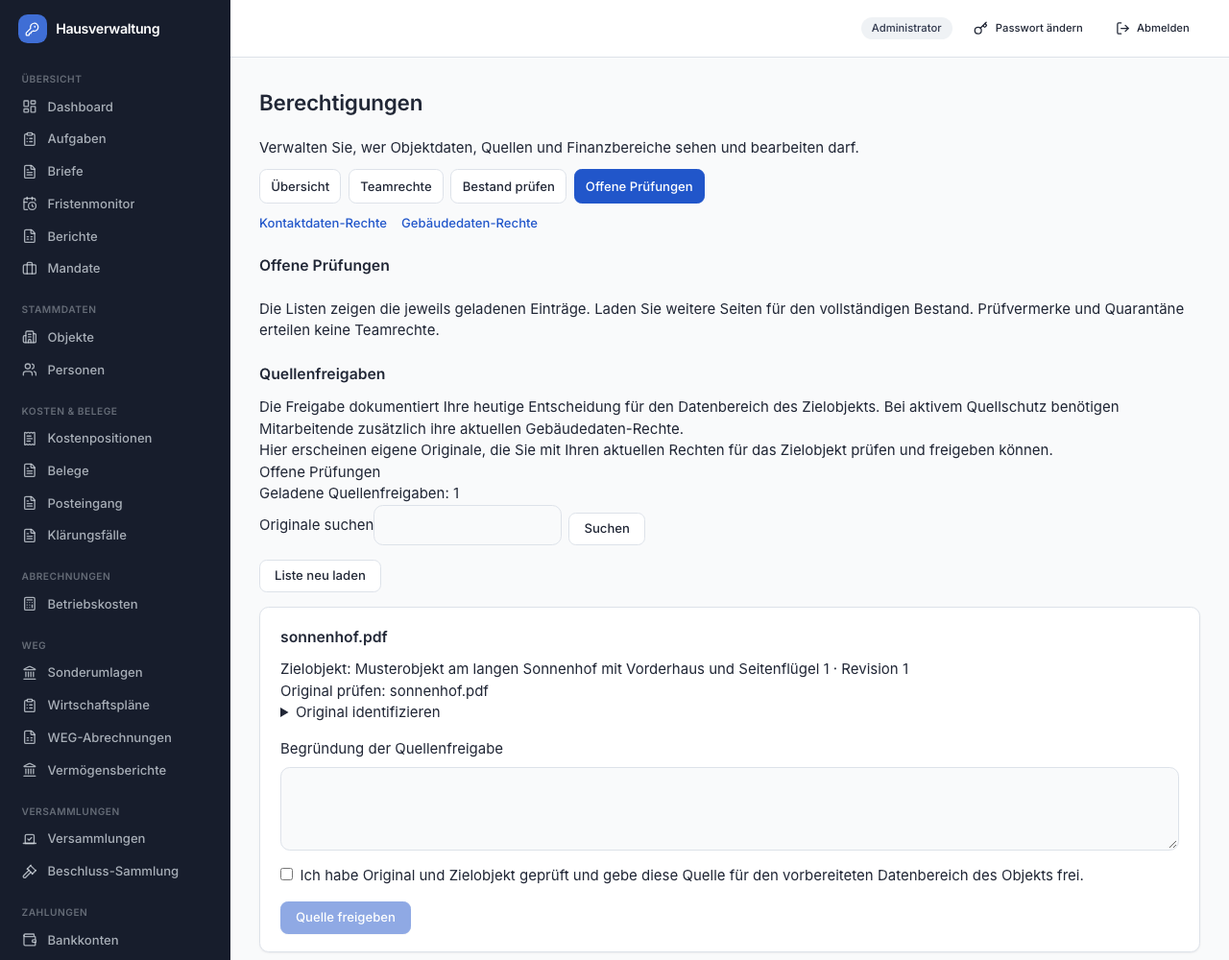
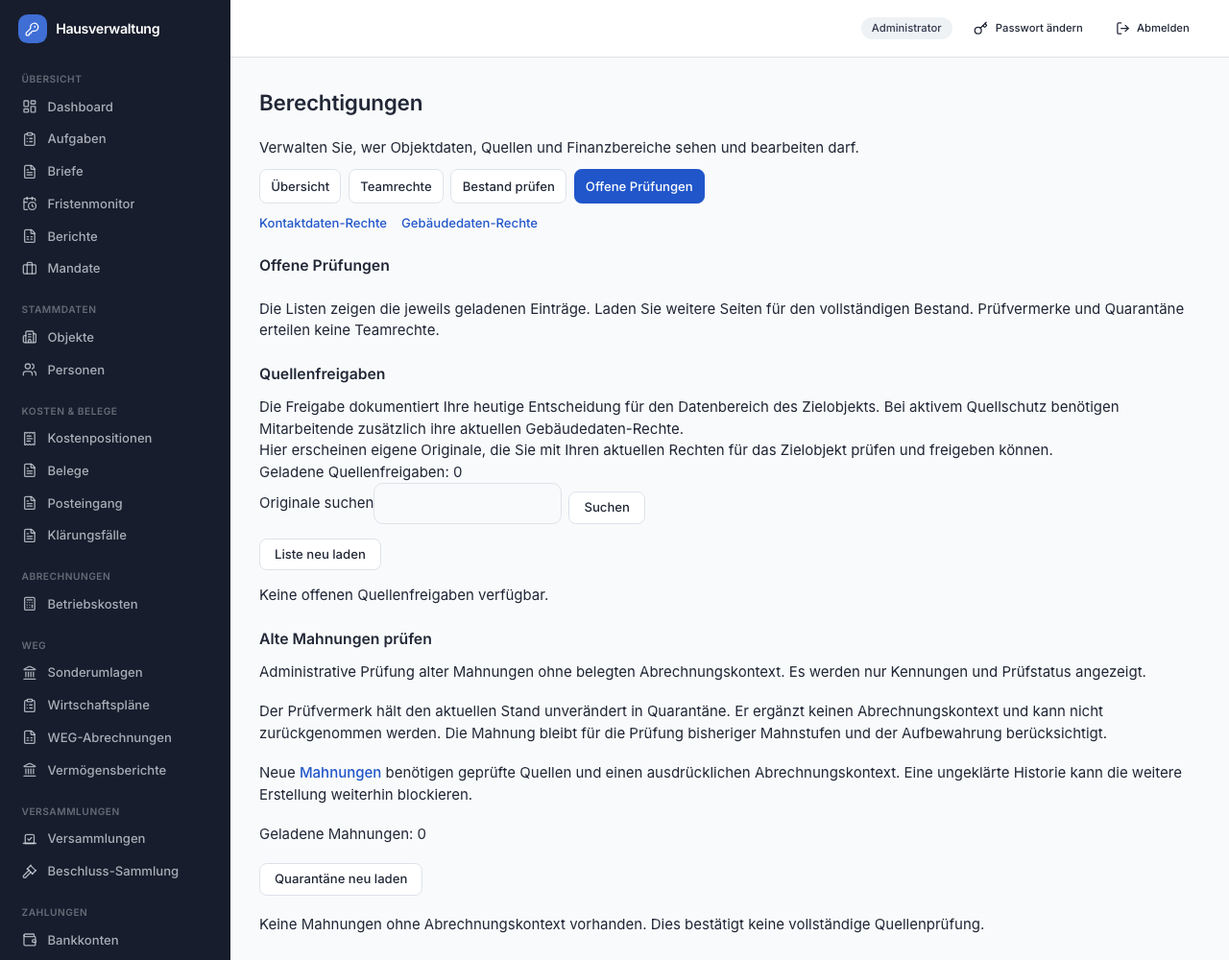
fix(permissions): align status copy and review navigation
Two secondary screens still described preparation after activation, and embedded
review lists linked back to themselves. Read the existing live status with the
shared mode descriptions, restrict admin navigation, and remove embedded links.
Update eight legacy setup routes, durable activation docs, and referenced images.
Add the preparation access baseline without changing enforcement tests.

Verification: 72 backend tests; 88 frontend tests; make lint; make docs-check;
13 instruction-rule tests; eight script syntax checks; Chromium at 1280/360 px.
Regression tests failed first for stale copy, unavailable state and review links.

Closes #73

Changed region(s): [[0.2188, 0.465, 0.9375, 0.837], [0.2188, 0.868, 0.875, 0.992], [0.4688, 0.527, 0.5312, 0.558]]

diff --git a/frontend/src/pages/SourceClassificationsPage.test.tsx b/frontend/src/pages/SourceClassificationsPage.test.tsx
@@ -13,17 +13,21 @@ afterEach(() => { cleanup(); vi.restoreAllMocks(); role = "OWNER_ADMIN"; });
 function show(path = "/altquellen") {
   render(<MemoryRouter initialEntries={[path]}><Routes><Route path="/altquellen" element={<SourceClassificationsPage />} /><Route path="/altquellen/:reviewId" element={<SourceClassificationsPage />} /></Routes></MemoryRouter>);
 }
+function mockSources(items: (Omit<typeof source, "source_uploaded_by"> & { source_uploaded_by: string | null })[] = [source]) {
+  return vi.spyOn(api, "get").mockImplementation(async (path) => path === "/api/access-preparation/source-security"
+    ? { mode: "PREPARATION", changed_at: null } : { items, next_cursor: null });
+}
 function confirm() {
   fireEvent.change(screen.getByLabelText("Begründung der Einstufung"), { target: { value: "Original und Ziel geprüft" } });
   fireEvent.click(screen.getByRole("checkbox"));
 }
 
 it("retains exact classification, digest and key after an unconfirmed response", async () => {
-  vi.spyOn(api, "get").mockResolvedValue({ items: [source], next_cursor: null });
+  mockSources();
   const post = vi.spyOn(api, "post").mockRejectedValueOnce(new Error("Lost reply")).mockResolvedValue({ ...source, id: "receipt", decision: "ADMITTED", reason: "Original und Ziel geprüft", created_at: "2026-10-02T12:00:00Z" });
   show();
   expect(await screen.findByRole("button", { name: "Einstufung speichern" })).toBeDisabled();
-  expect(screen.getByText(/schränkt den bisherigen Zugriff noch nicht ein/)).toBeVisible();
+  expect(screen.getByText(/objektbezogene Quellschutz ist noch aus/)).toBeVisible();
   confirm(); fireEvent.click(screen.getByRole("button", { name: "Einstufung speichern" }));
   await screen.findByText(/Keine bestätigte Antwort erhalten/);
   expect(screen.getByRole("combobox")).toBeDisabled();
@@ -36,7 +40,7 @@ it("retains exact classification, digest and key after an unconfirmed response",
 });
 
 it("offers only quarantine and no original link for unknown custody", async () => {
-  vi.spyOn(api, "get").mockResolvedValue({ items: [{ ...source, can_admit: false, can_preview: false, source_uploaded_by: null }], next_cursor: null });
+  mockSources([{ ...source, can_admit: false, can_preview: false, source_uploaded_by: null }]);
   show(); await screen.findByRole("combobox");
   expect(screen.getByRole("combobox")).toHaveValue("QUARANTINED");
   expect(screen.getByRole("option", { name: "Quelle freigeben" })).toBeDisabled();
@@ -45,7 +49,7 @@ it("offers only quarantine and no original link for unknown custody", async () =
 });
 
 it("requires renewed confirmation after changing the decision", async () => {
-  vi.spyOn(api, "get").mockResolvedValue({ items: [source], next_cursor: null });
+  mockSources();
   show(); await screen.findByRole("checkbox"); confirm();
   expect(screen.getByRole("button", { name: "Einstufung speichern" })).toBeEnabled();
   fireEvent.change(screen.getByRole("combobox"), { target: { value: "QUARANTINED" } });
@@ -54,7 +58,7 @@ it("requires renewed confirmation after changing the decision", async () => {
 });
 
 it("requires refreshed context and new confirmation after conflict", async () => {
-  const get = vi.spyOn(api, "get").mockResolvedValue({ items: [source], next_cursor: null });
+  const get = mockSources();
   const post = vi.spyOn(api, "post").mockRejectedValue(new ApiError(409, "Stale context"));
   show(); await screen.findByRole("checkbox"); confirm();
   fireEvent.click(screen.getByRole("button", { name: "Einstufung speichern" }));
@@ -79,4 +83,27 @@ it("does not expose a receipt after current access is denied", async () => {
   vi.spyOn(api, "get").mockRejectedValue(new ApiError(404, "Denied"));
   show("/altquellen/receipt"); await screen.findByText(/Prüfnachweis mit Ihren aktuellen Rechten nicht verfügbar/);
   expect(screen.queryByRole("region", { name: "Prüfnachweis" })).not.toBeInTheDocument();
+});
+
+it.each([
+  ["PREPARATION", "Der objektbezogene Quellschutz ist noch aus."],
+  ["ENFORCED", "Mitarbeitende sehen nur ausdrücklich freigegebene Objektdaten"],
+  ["PAUSED", "Quellen- und Finanzaktionen sind angehalten."],
+])("shows the live %s protection state on legacy source classification", async (mode, message) => {
+  const get = vi.spyOn(api, "get").mockImplementation(async (path) => path === "/api/access-preparation/source-security"
+    ? { mode, changed_at: null } : { items: [source], next_cursor: null });
+  show();
+  expect(await screen.findByText((text) => text.includes(message))).toBeVisible();
+  expect(get).toHaveBeenCalledWith("/api/access-preparation/source-security", expect.anything());
+  expect(screen.queryByText(/Sie ist noch nicht aktiviert/)).not.toBeInTheDocument();
+});
+
+it("reports unavailable protection instead of claiming preparation when status fails", async () => {
+  vi.spyOn(api, "get").mockImplementation(async (path) => {
+    if (path === "/api/access-preparation/source-security") throw new Error("Unavailable");
+    return { items: [source], next_cursor: null };
+  });
+  show();
+  expect(await screen.findByText(/Der aktuelle Quellschutz ist nicht verfügbar/)).toBeVisible();
+  expect(screen.queryByText(/noch nicht aktiviert|Quellschutz ist noch aus/)).not.toBeInTheDocument();
 });

diff --git a/frontend/src/pages/DeclarationReviewPage.test.tsx b/frontend/src/pages/DeclarationReviewPage.test.tsx
@@ -1,8 +1,8 @@
-import { afterEach, describe, expect, it, vi } from "vitest";
+import { afterEach, beforeEach, describe, expect, it, vi } from "vitest";
 import { cleanup, fireEvent, render, screen, waitFor } from "@testing-library/react";
 import { MemoryRouter, Route, Routes, useNavigate } from "react-router-dom";
 import * as declarationApi from "../api/endpoints";
-import { ApiError } from "../api/client";
+import { api, ApiError } from "../api/client";
 import type { ApprovalPreview, DeclarationCandidate, DeclarationDocument } from "../api/types";
 import { DeclarationReviewPage } from "./DeclarationReviewPage";
 import * as auth from "../auth/useAuth";
@@ -60,6 +60,10 @@ function renderReview(withRouteSwitch = false) {
   );
 }
 
+beforeEach(() => {
+  vi.spyOn(api, "get").mockResolvedValue({ mode: "PREPARATION", changed_at: null });
+});
+
 afterEach(() => {
   cleanup();
   vi.restoreAllMocks();
@@ -67,6 +71,29 @@ afterEach(() => {
 });
 
 describe("Teilungserklärung review", () => {
+  it.each([
+    ["PREPARATION", "Der objektbezogene Quellschutz ist noch aus."],
+    ["ENFORCED", "Mitarbeitende sehen nur ausdrücklich freigegebene Objektdaten"],
+    ["PAUSED", "Quellen- und Finanzaktionen sind angehalten."],
+  ])("shows the live %s protection state when preparing publication rights", async (mode, message) => {
+    vi.mocked(api.get).mockResolvedValue({ mode, changed_at: null });
+    mockReviewData();
+    renderReview();
+    fireEvent.click(await screen.findByRole("button", { name: "Übernahme vorbereiten" }));
+    expect(await screen.findByText((text) => text.includes(message))).toBeVisible();
+    expect(api.get).toHaveBeenCalledWith("/api/access-preparation/source-security", expect.anything());
+    expect(screen.queryByText(/Zugriffsbeschränkung ist noch nicht aktiviert/)).not.toBeInTheDocument();
+  });
+
+  it("reports unavailable protection when the current status cannot be loaded", async () => {
+    vi.mocked(api.get).mockRejectedValue(new Error("Unavailable"));
+    mockReviewData();
+    renderReview();
+    fireEvent.click(await screen.findByRole("button", { name: "Übernahme vorbereiten" }));
+    expect(await screen.findByText(/Der aktuelle Quellschutz ist nicht verfügbar/)).toBeVisible();
+    expect(screen.queryByText(/noch nicht aktiviert|Quellschutz ist noch aus/)).not.toBeInTheDocument();
+  });
+
   it("requires an explicit audience choice and reason, then retries the exact submitted grant", async () => {
     mockReviewData([candidate({ review_status: "ACCEPTED" })]);
     const approve = vi.spyOn(declarationApi, "approveDeclarationImport").mockRejectedValue(new Error("Antwort verloren"));
@@ -90,7 +117,7 @@ describe("Teilungserklärung review", () => {
         { user_id: "publisher", capabilities: ["read", "prepare", "approve", "export"], reason: "Objektfreigabe geprüft" },
       ] },
     });
-    expect(screen.getByText(/Zugriffsbeschränkung ist noch nicht aktiviert/)).toBeVisible();
+    expect(screen.getByText(/objektbezogene Quellschutz ist noch aus/)).toBeVisible();
   });
 
   it("does not offer new audience creation for an existing property amendment", async () => {

diff --git a/frontend/src/pages/SourceAdmissionReviewsPage.tsx b/frontend/src/pages/SourceAdmissionReviewsPage.tsx
@@ -1,5 +1,5 @@
 import { useEffect, useRef, useState, type FormEvent } from "react";
-import { Link, useParams } from "react-router-dom";
+import { Link, useLocation, useParams } from "react-router-dom";
 import { ApiError } from "../api/client";
 import { useAuth } from "../auth/useAuth";
 import { usePagedList } from "../hooks/usePagedList";
@@ -56,12 +56,15 @@ function ReviewForm({ source }: { source: PendingSource }) {
 }
 
 function PendingReviews() {
+  const { session } = useAuth();
+  const { pathname } = useLocation();
   const page = usePagedList<PendingSource>(endpoint + "/pending/page");
   const [generation, setGeneration] = useState(0);
   function refresh() { setGeneration(value => value + 1); page.reload(); }
   return <>
     <p>Hier erscheinen eigene Originale, die Sie mit Ihren aktuellen Rechten für das Zielobjekt prüfen und freigeben können.</p>
-    <p><Link to="/berechtigungen/pruefungen">Offene Prüfungen</Link></p>
+    {session?.role === "OWNER_ADMIN" && pathname !== "/berechtigungen/pruefungen" &&
+      <p><Link className="link" to="/berechtigungen/pruefungen">Offene Prüfungen</Link></p>}
     {!page.error && !page.loading && <p>Geladene Quellenfreigaben: {page.items.length.toLocaleString("de-DE")}{page.nextCursor ? " · Weitere Einträge verfügbar" : ""}</p>}
     <ListSearch label="Originale suchen" onSearch={page.setQuery} />
     <button className="btn mb-4" disabled={page.loading} onClick={refresh}>Liste neu laden</button>
@@ -91,7 +94,7 @@ export function SourceAdmissionReviewsPage() {
   const canWrite = session?.role === "OWNER_ADMIN" || session?.role === "CLERK";
   return <div className="paged-list source-admission-review min-w-0"><h2>Quellenfreigaben</h2>
     <p>Die Freigabe dokumentiert Ihre heutige Entscheidung für den Datenbereich des Zielobjekts. Bei aktivem Quellschutz benötigen Mitarbeitende zusätzlich ihre aktuellen Gebäudedaten-Rechte.</p>
-    {reviewId ? <><Link to="/berechtigungen/pruefungen/quellen">Zur Liste der Quellenfreigaben</Link><ReceiptDetail key={reviewId} reviewId={reviewId} /></> :
+    {reviewId ? <><Link className="link" to="/berechtigungen/pruefungen/quellen">Zur Liste der Quellenfreigaben</Link><ReceiptDetail key={reviewId} reviewId={reviewId} /></> :
       canWrite ? <PendingReviews /> : <p>Quellenfreigaben erfordern Schreibrechte.</p>}
   </div>;
 }

diff --git a/frontend/src/pages/SourceAdmissionReviewsPage.test.tsx b/frontend/src/pages/SourceAdmissionReviewsPage.test.tsx
@@ -10,7 +10,7 @@ let role = "OWNER_ADMIN";
 vi.mock("../auth/useAuth", () => ({ useAuth: () => ({ session: { role } }) }));
 afterEach(() => { cleanup(); vi.restoreAllMocks(); role = "OWNER_ADMIN"; });
 function show(path = "/quellenfreigaben") {
-  render(<MemoryRouter initialEntries={[path]}><Routes><Route path="/quellenfreigaben" element={<SourceAdmissionReviewsPage />} /><Route path="/quellenfreigaben/:reviewId" element={<SourceAdmissionReviewsPage />} /></Routes></MemoryRouter>);
+  render(<MemoryRouter initialEntries={[path]}><Routes><Route path="/berechtigungen/pruefungen" element={<SourceAdmissionReviewsPage />} /><Route path="/quellenfreigaben" element={<SourceAdmissionReviewsPage />} /><Route path="/quellenfreigaben/:reviewId" element={<SourceAdmissionReviewsPage />} /></Routes></MemoryRouter>);
 }
 
 it("hides the original link when the current export check denies preview", async () => {
@@ -89,4 +89,25 @@ it("reloads a changed source after a definitive conflict and submits a newly con
   await screen.findByText(/Der Prüfstand hat sich geändert/);
   expect(post.mock.calls[1][1]).toMatchObject({ draft_revision: 8, reason: "Neue Revision geprüft" });
   expect(post.mock.calls[1][2]?.headers).not.toEqual(post.mock.calls[0][2]?.headers);
+});
+
+it("keeps clerks on their source reviews without an admin-only link", async () => {
+  role = "CLERK";
+  vi.spyOn(api, "get").mockResolvedValue({ items: [source], next_cursor: null });
+  show();
+  expect(await screen.findByRole("button", { name: "Quelle freigeben" })).toBeVisible();
+  expect(screen.queryByRole("link", { name: "Offene Prüfungen" })).not.toBeInTheDocument();
+});
+
+it("omits the reviews self-link inside the combined page", async () => {
+  vi.spyOn(api, "get").mockResolvedValue({ items: [source], next_cursor: null });
+  show("/berechtigungen/pruefungen");
+  await screen.findByRole("button", { name: "Quelle freigeben" });
+  expect(screen.queryByRole("link", { name: "Offene Prüfungen" })).not.toBeInTheDocument();
+});
+
+it("styles the admin navigation link on a standalone source list", async () => {
+  vi.spyOn(api, "get").mockResolvedValue({ items: [source], next_cursor: null });
+  show();
+  expect(await screen.findByRole("link", { name: "Offene Prüfungen" })).toHaveClass("link");
 });

diff --git a/frontend/src/pages/MandateQuarantinePage.test.tsx b/frontend/src/pages/MandateQuarantinePage.test.tsx
@@ -7,9 +7,9 @@ import * as auth from "../auth/useAuth";
 
 const row = { id: "original-id", document_id: "original-id", snapshot_digest: "a".repeat(64), observed_at: "2026-10-02T12:00:00Z", disposition: null };
 afterEach(() => { cleanup(); vi.restoreAllMocks(); });
-function show(role: "OWNER_ADMIN" | "CLERK" = "OWNER_ADMIN") {
+function show(role: "OWNER_ADMIN" | "CLERK" = "OWNER_ADMIN", path = "/") {
   vi.spyOn(auth, "useAuth").mockReturnValue({ loading: false, session: { user_id: "actor", organization_id: "org", role }, login: vi.fn(), logout: vi.fn() });
-  render(<MemoryRouter><MandateQuarantinePage /></MemoryRouter>);
+  render(<MemoryRouter initialEntries={[path]}><MandateQuarantinePage /></MemoryRouter>);
 }
 
 it("requires explicit confirmation and reuses the request key after a lost response", async () => {
@@ -55,4 +55,17 @@ it("uses the server disposition after refreshing a lost response", async () => {
   fireEvent.click(screen.getByRole("button", { name: "Quarantäne neu laden" }));
   await screen.findByText(/Quarantäne geprüft ·/);
   expect(screen.queryByRole("button", { name: "Quarantäne als geprüft vermerken" })).toBeNull();
+});
+
+it("omits the reviews self-link inside the combined page", async () => {
+  vi.spyOn(api, "get").mockResolvedValue({ items: [row], next_cursor: null });
+  show("OWNER_ADMIN", "/berechtigungen/pruefungen");
+  await screen.findByRole("button", { name: "Quarantäne als geprüft vermerken" });
+  expect(screen.queryByRole("link", { name: "Offene Prüfungen" })).not.toBeInTheDocument();
+});
+
+it("styles the link back to the combined reviews from a standalone list", async () => {
+  vi.spyOn(api, "get").mockResolvedValue({ items: [row], next_cursor: null });
+  show();
+  expect(await screen.findByRole("link", { name: "Offene Prüfungen" })).toHaveClass("link");
 });

diff --git a/frontend/src/pages/DunningQuarantinePage.test.tsx b/frontend/src/pages/DunningQuarantinePage.test.tsx
@@ -7,9 +7,9 @@ import * as auth from "../auth/useAuth";
 
 const row = { id: "original-id", notice_id: "original-id", snapshot_digest: "a".repeat(64), observed_at: "2026-10-02T12:00:00Z", disposition: null };
 afterEach(() => { cleanup(); vi.restoreAllMocks(); });
-function show(role: "OWNER_ADMIN" | "CLERK" = "OWNER_ADMIN") {
+function show(role: "OWNER_ADMIN" | "CLERK" = "OWNER_ADMIN", path = "/") {
   vi.spyOn(auth, "useAuth").mockReturnValue({ loading: false, session: { user_id: "actor", organization_id: "org", role }, login: vi.fn(), logout: vi.fn() });
-  render(<MemoryRouter><DunningQuarantinePage /></MemoryRouter>);
+  render(<MemoryRouter initialEntries={[path]}><DunningQuarantinePage /></MemoryRouter>);
 }
 
 it("requires explicit confirmation and reuses the request key after a lost response", async () => {
@@ -55,4 +55,17 @@ it("uses the server disposition after refreshing a lost response", async () => {
   fireEvent.click(screen.getByRole("button", { name: "Quarantäne neu laden" }));
   await screen.findByText(/Quarantäne geprüft ·/);
   expect(screen.queryByRole("button", { name: "Quarantäne als geprüft vermerken" })).toBeNull();
+});
+
+it("omits the reviews self-link inside the combined page", async () => {
+  vi.spyOn(api, "get").mockResolvedValue({ items: [row], next_cursor: null });
+  show("OWNER_ADMIN", "/berechtigungen/pruefungen");
+  await screen.findByRole("button", { name: "Quarantäne als geprüft vermerken" });
+  expect(screen.queryByRole("link", { name: "Offene Prüfungen" })).not.toBeInTheDocument();
+});
+
+it("styles the link back to the combined reviews from a standalone list", async () => {
+  vi.spyOn(api, "get").mockResolvedValue({ items: [row], next_cursor: null });
+  show();
+  expect(await screen.findByRole("link", { name: "Offene Prüfungen" })).toHaveClass("link");
 });

diff --git a/frontend/src/pages/DunningQuarantinePage.tsx b/frontend/src/pages/DunningQuarantinePage.tsx
@@ -1,5 +1,5 @@
 import { useRef, useState } from "react";
-import { Link } from "react-router-dom";
+import { Link, useLocation } from "react-router-dom";
 import { api } from "../api/client";
 import { useAuth } from "../auth/useAuth";
 import { usePagedList } from "../hooks/usePagedList";
@@ -58,12 +58,13 @@ function ObservationCard({ row }: { row: Observation }) {
 }
 
 function Inventory() {
+  const { pathname } = useLocation();
   const page = usePagedList<Observation>("/api/dunning-quarantine/page");
   return <div className="space-y-5">
     <header><h2>Alte Mahnungen prüfen</h2><p>Administrative Prüfung alter Mahnungen ohne belegten Abrechnungskontext. Es werden nur Kennungen und Prüfstatus angezeigt.</p></header>
     <p>Der Prüfvermerk hält den aktuellen Stand unverändert in Quarantäne. Er ergänzt keinen Abrechnungskontext und kann nicht zurückgenommen werden. Die Mahnung bleibt für die Prüfung bisheriger Mahnstufen und der Aufbewahrung berücksichtigt.</p>
     <p>Neue <Link to="/mahnungen" className="link">Mahnungen</Link> benötigen geprüfte Quellen und einen ausdrücklichen Abrechnungskontext. Eine ungeklärte Historie kann die weitere Erstellung weiterhin blockieren.</p>
-    <p><Link to="/berechtigungen/pruefungen">Offene Prüfungen</Link></p>
+    {pathname !== "/berechtigungen/pruefungen" && <p><Link className="link" to="/berechtigungen/pruefungen">Offene Prüfungen</Link></p>}
     {!page.error && !page.loading && <p>Geladene Mahnungen: {page.items.length.toLocaleString("de-DE")}{page.nextCursor ? " · Weitere Einträge verfügbar" : ""}</p>}
     <button className="btn" type="button" disabled={page.loading} onClick={page.reload}>Quarantäne neu laden</button>
     {page.error && <p role="alert" className="error-text">{page.error}</p>}

diff --git a/frontend/src/pages/MandateQuarantinePage.tsx b/frontend/src/pages/MandateQuarantinePage.tsx
@@ -1,5 +1,5 @@
 import { useRef, useState } from "react";
-import { Link } from "react-router-dom";
+import { Link, useLocation } from "react-router-dom";
 import { api } from "../api/client";
 import { useAuth } from "../auth/useAuth";
 import { usePagedList } from "../hooks/usePagedList";
@@ -58,12 +58,13 @@ function ObservationCard({ row }: { row: Observation }) {
 }
 
 function Inventory() {
+  const { pathname } = useLocation();
   const page = usePagedList<Observation>("/api/mandate-quarantine/page");
   return <div className="space-y-5">
     <header><h2>Mandatsquarantäne prüfen</h2><p>Administrative Prüfung unzugeordneter Altunterlagen. Es werden nur Kennungen und Prüfstatus angezeigt.</p></header>
     <p>Die Beobachtung hält den damaligen Metadatenstand fest. Sie belegt weder historische Herkunft noch die Echtheit oder Verfügbarkeit der Datei. Originale bleiben gesperrt und unverändert. Ein Prüfvermerk kann nicht zurückgenommen werden.</p>
     <p>Für die weitere Nutzung laden Sie ein eigenständig vorliegendes Original mit ausdrücklicher Bereichszuordnung beim <Link to="/mandate" className="link">Mandat</Link> hoch.</p>
-    <p><Link to="/berechtigungen/pruefungen">Offene Prüfungen</Link></p>
+    {pathname !== "/berechtigungen/pruefungen" && <p><Link className="link" to="/berechtigungen/pruefungen">Offene Prüfungen</Link></p>}
     {!page.error && !page.loading && <p>Geladene Mandatsunterlagen: {page.items.length.toLocaleString("de-DE")}{page.nextCursor ? " · Weitere Einträge verfügbar" : ""}</p>}
     <button className="btn" type="button" disabled={page.loading} onClick={page.reload}>Quarantäne neu laden</button>
     {page.error && <p role="alert" className="error-text">{page.error}</p>}

diff --git a/frontend/src/pages/DeclarationReviewPage.tsx b/frontend/src/pages/DeclarationReviewPage.tsx
@@ -12,6 +12,7 @@ import type { ApprovalPreview, DeclarationApprovalRequest, DeclarationCandidate,
 import { useAuth } from "../auth/useAuth";
 import { ApprovalSummary } from "../components/declarations/ApprovalSummary";
 import { ReviewGroup } from "../components/declarations/ReviewGroup";
+import { SourceSecurityNotice } from "../components/SourceSecurityNotice";
 
 const GROUPS = [
   ["Stammdaten", "master"],
@@ -247,7 +248,8 @@ function DeclarationReviewImportPage({ importId }: { importId: string | undefine
         >
           {canPrepareAudience && <fieldset className="declaration-publication-audience" disabled={approvalPending || approvalAttempted}>
             <legend>Gebäudedatenrechte vorbereiten</legend>
-            <p>Die Rechte werden mit der Übernahme gespeichert. Die Zugriffsbeschränkung ist noch nicht aktiviert.</p>
+            <p>Die Rechte werden mit der Übernahme gespeichert.</p>
+            <SourceSecurityNotice key={session.organization_id} />
             <label className="declaration-publication-choice"><input type="checkbox" checked={audienceEnabled} onChange={(event) => setAudienceEnabled(event.target.checked)} /><span>Für mich Lesen, Bearbeiten, Freigeben und Exportieren vorbereiten</span></label>
             {audienceEnabled && <>
               <div className="declaration-publication-field"><label htmlFor="publication-audience-label">Bezeichnung</label><input id="publication-audience-label" value={audienceLabel} maxLength={255} onChange={(event) => setAudienceLabel(event.target.value)} /></div>

diff --git a/frontend/src/pages/SourceClassificationsPage.tsx b/frontend/src/pages/SourceClassificationsPage.tsx
@@ -4,6 +4,7 @@ import { ApiError } from "../api/client";
 import { useAuth } from "../auth/useAuth";
 import { usePagedList } from "../hooks/usePagedList";
 import { ListSearch, MoreResults } from "../components/ListSearch";
+import { SourceSecurityNotice } from "../components/SourceSecurityNotice";
 
 import { sourceClassificationApi } from "../api/endpoints";
 import type { SourceClassificationCommand as ReviewCommand, PendingSourceClassification as PendingSource, SourceClassificationReceipt as Receipt } from "../api/types";
@@ -96,7 +97,8 @@ export function SourceClassificationsPage() {
   const { session } = useAuth();
   const canWrite = session?.role === "OWNER_ADMIN";
   return <div className="paged-list source-admission-review min-w-0"><h1>Altquellen prüfen</h1>
-    <p>Diese Einstufung bereitet die spätere Zugriffskontrolle vor. Sie ist noch nicht aktiviert; auch eine hier dokumentierte Sperre schränkt den bisherigen Zugriff noch nicht ein. Unklare Herkunft wird nicht nachträglich ergänzt.</p>
+    <p>Hier dokumentieren Sie die Freigabe oder Sperre von Altquellen. Unklare Herkunft wird nicht nachträglich ergänzt.</p>
+    {canWrite && <SourceSecurityNotice key={session.organization_id} />}
     {reviewId ? <><Link to="/altquellen">Zur Liste der Altquellen</Link><ReceiptDetail key={reviewId} reviewId={reviewId} /></> :
       canWrite ? <PendingReviews /> : <p>Die Einstufung erfordert Administratorrechte und ausdrückliche Rechte am Datenbereich.</p>}
   </div>;

diff --git a/frontend/src/components/SourceSecurityNotice.tsx b/frontend/src/components/SourceSecurityNotice.tsx
@@ -1,0 +1,18 @@
+import { useEffect, useState } from "react";
+import { api } from "../api/client";
+import { sourceSecurityGuidance, sourceSecurityLabels, type SourceSecurityStatus } from "../lib/sourceSecurity";
+
+export function SourceSecurityNotice() {
+  const [state, setState] = useState<SourceSecurityStatus | null>(null);
+  const [error, setError] = useState(false);
+  useEffect(() => {
+    const controller = new AbortController();
+    api.get<SourceSecurityStatus>("/api/access-preparation/source-security", { signal: controller.signal })
+      .then(value => { if (!controller.signal.aborted) setState(value); })
+      .catch(() => { if (!controller.signal.aborted) setError(true); });
+    return () => controller.abort();
+  }, []);
+  if (error) return <p role="alert" className="error-text">Der aktuelle Quellschutz ist nicht verfügbar. Bitte die Seite erneut laden.</p>;
+  if (!state) return <p role="status">Quellschutz wird geladen…</p>;
+  return <div className="space-y-2"><p><strong>{sourceSecurityLabels[state.mode]}</strong></p><p>{sourceSecurityGuidance[state.mode].meaning}</p></div>;
+}

diff --git a/backend/tests/bdd/steps/source_access.py b/backend/tests/bdd/steps/source_access.py
@@ -61,6 +61,15 @@ def reviewed_property(world):
                       source_account=account, source_draft=draft, source_document=document, source_pdf=pdf)
 
 
+@given("before activation the ungranted staff member can open the property and original, but not the scoped financial account")
+def preparation_access_baseline(world):
+    assert world.run(status(world.data["source_admin"]))["mode"] == "PREPARATION"
+    open_protected_data(world)
+    # Classified finance needs its exact scope grant in every mode; only the
+    # property/original denial below depends on activating source protection.
+    assert [answer.status_code for answer in world.data["source_answers"]] == [200, 200, 404]
+
+
 @given("source access protection has been activated after review")
 def activate_source_access(world):
     admin = world.data["source_admin"]
